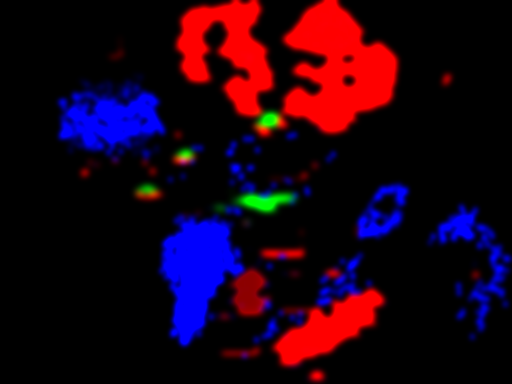
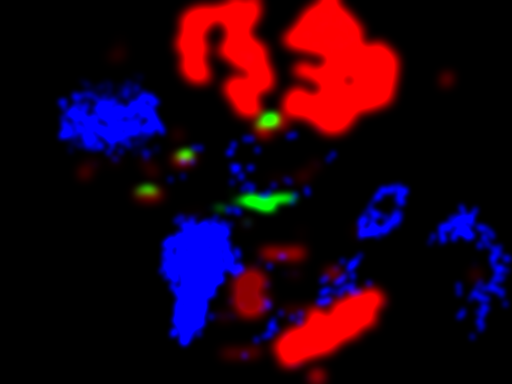
Piedi delle montagne in salita, terreno piu' irregolare, foresta fitta con sottobosco
Il terreno sale e si fa ruvido gia' 100-150 m prima di montagne e colline,
che hanno basi piu' larghe. Nella foresta alberi di tre taglie, alberelli nel
folto, cespugli, felci, piante ed erba alta verdi, luce piu' scura sotto le
chiome.

Claude-Session: https://claude.ai/code/session_01W2BWnqteNcm12tZAt5PmgA

diff --git a/web/src/game3d/vegetation.js b/web/src/game3d/vegetation.js
@@ -1,44 +1,63 @@
 // The trees of the open country: the forests of the map (its drawn trees: the forest layer) and a few trees scattered on
 // its plains; never on the places' ground, on the roads, in the water or on the beach, on steep slopes and cliffs;
-// in the snow pines and dead trees. Placed a tile (64 m) at a time, always the same (from the tile's number).
-// Near the player (NEAR) they are the nature pack's trees, instanced (a dozen draws for all of them); farther, up to the
-// fog, simple low trees (a cone, a ball, a bare trunk) that cost almost nothing. Their trunks stop whoever walks into
-// them (push).
+// in the snow pines and dead trees. In the forests trees of every size (young ones, middling ones, old giants; in the
+// thick of them a second, young tree beside each) and undergrowth: bushes, ferns, big plants, tall grass, mushrooms.
+// Placed a tile (64 m) at a time, always the same (from the tile's number).
+// Near the player (NEAR) they are the nature pack's trees, instanced (a dozen draws for all of them), the undergrowth
+// nearer still (NEAR_U); farther, up to the fog, simple low trees (a cone, a ball, a bare trunk) that cost almost
+// nothing. Their trunks stop whoever walks into them (push); the undergrowth does not.
 import * as THREE from "three";
 import { mergeGeometries } from "three/addons/utils/BufferGeometryUtils.js";
 import { libParts, natureScale } from "./nature";
 import { layersAt, surfaceAt, treeFree, nearRoad, SEA_Y } from "./terrain";
 import { MAP } from "./sites";
 
-const TILE = 64, CELL = 6.4, N = TILE / CELL, NEAR = 48, SHADE = 30, REBUILD = 5;
+const TILE = 64, CELL = 6.4, N = TILE / CELL, NEAR = 48, NEAR_U = 30, SHADE = 28, REBUILD = 5;
 const PINES = ["pino_1", "pino_2", "pino_3"], BROAD = ["albero_1", "albero_2", "albero_3"], MODELS = [...PINES, ...BROAD, "morto"];
+const UNDER = ["cespuglio", "felce", "pianta_grande", "erba_alta", "fungo"];
 const KIND = (id) => (id === "morto" ? 2 : id.startsWith("pino") ? 0 : 1);   // far: cone, ball, bare trunk
 const TX = Math.ceil(MAP.w / TILE), TZ = Math.ceil(MAP.h / TILE);
 const rand = (a, b, c) => { let h = (a * 374761393 + b * 668265263 + c * 1442695041) | 0; h = Math.imul(h ^ (h >>> 13), 1274126177); return ((h ^ (h >>> 16)) >>> 0) / 4294967295; };
 
-// The trees of a tile: [{ x, y, z, id, ry, k, r }]
+const steep = (x, z) => Math.hypot(surfaceAt(x + 1.5, z) - surfaceAt(x - 1.5, z), surfaceAt(x, z + 1.5) - surfaceAt(x, z - 1.5)) / 3;
+// The trees of a tile [{ x, y, z, id, ry, k, r }] and its undergrowth [{ x, y, z, id, ry, k }]
 function tileTrees(ti, tj) {
-  const out = [], x0 = ti * TILE - MAP.ox, z0 = tj * TILE - MAP.oz;
+  const trees = [], under = [], x0 = ti * TILE - MAP.ox, z0 = tj * TILE - MAP.oz;
   for (let b = 0; b < N; b++) for (let a = 0; a < N; a++) {
-    const seed = (tj * TX + ti) * 128 + b * N + a;
-    const x = x0 + (a + 0.5 + (rand(seed, 1, 7) - 0.5) * 0.85) * CELL, z = z0 + (b + 0.5 + (rand(seed, 2, 7) - 0.5) * 0.85) * CELL;
-    const ly = layersAt(x, z);
-    let p = ly.forest > 0.05 ? Math.min(0.75, 0.06 + ly.forest * 1.05) : 0.022;
-    if (ly.snow > 0.5 && ly.forest < 0.3) p *= 0.15;                       // (the snow: only its forest)
-    if (ly.mount > 0.3) p *= Math.max(0, 1 - (ly.mount - 0.3) * 2.5);      // none high on the mountains
-    if (ly.ice > 0.3) p = 0;
-    if (rand(seed, 3, 7) > p) continue;
-    const y = surfaceAt(x, z);
-    if (y < SEA_Y + 0.9 || !treeFree(x, z) || nearRoad(x, z, 4.5)) continue;
-    if (Math.hypot(surfaceAt(x + 1.5, z) - surfaceAt(x - 1.5, z), surfaceAt(x, z + 1.5) - surfaceAt(x, z - 1.5)) / 3 > 0.65) continue;   // too steep
-    const r = rand(seed, 4, 7);
-    const id = ly.snow > 0.5 ? (r < 0.55 ? PINES[Math.floor(r * 5.4) % 3] : "morto")
-      : ly.forest > 0.35 ? (r < 0.84 ? PINES[Math.floor(r * 3.56) % 3] : r < 0.96 ? BROAD[Math.floor(r * 37) % 3] : "morto")
-        : r < 0.6 ? BROAD[Math.floor(r * 5) % 3] : PINES[Math.floor(r * 7) % 3];
-    const k = 0.82 + rand(seed, 5, 7) * 0.45;
-    out.push({ x, y, z, id, ry: rand(seed, 6, 7) * Math.PI * 2, k, r: (id === "morto" ? 0.3 : 0.4) * k });
+    const seed = (tj * TX + ti) * 128 + b * N + a, ly = layersAt(x0 + (a + 0.5) * CELL, z0 + (b + 0.5) * CELL);
+    if (ly.ice > 0.3) continue;
+    const thick = ly.forest > 0.45 && ly.snow < 0.5;
+    for (let n = 0; n < (thick ? 2 : 1); n++) {                            // (in the thick of a forest: a young tree too)
+      const s2 = seed * 3 + n;
+      const x = x0 + (a + 0.5 + (rand(s2, 1, 7) - 0.5) * 0.9) * CELL, z = z0 + (b + 0.5 + (rand(s2, 2, 7) - 0.5) * 0.9) * CELL;
+      let p = n ? (ly.forest - 0.45) * 1.3 : ly.forest > 0.05 ? Math.min(0.75, 0.06 + ly.forest * 1.05) : 0.022;
+      if (ly.snow > 0.5 && ly.forest < 0.3) p *= 0.15;                     // (the snow: only its forest)
+      if (ly.mount > 0.3) p *= Math.max(0, 1 - (ly.mount - 0.3) * 2.5);    // none high on the mountains
+      if (rand(s2, 3, 7) > p) continue;
+      const y = surfaceAt(x, z);
+      if (y < SEA_Y + 0.9 || !treeFree(x, z) || nearRoad(x, z, 4.5) || steep(x, z) > 0.65) continue;
+      const r = rand(s2, 4, 7), sz = rand(s2, 5, 7);
+      const id = ly.snow > 0.5 ? (r < 0.55 ? PINES[Math.floor(r * 5.4) % 3] : "morto")
+        : ly.forest > 0.35 ? (r < 0.84 ? PINES[Math.floor(r * 3.56) % 3] : r < 0.96 ? BROAD[Math.floor(r * 37) % 3] : "morto")
+          : r < 0.6 ? BROAD[Math.floor(r * 5) % 3] : PINES[Math.floor(r * 7) % 3];
+      // sizes: young ones beside the others; in the forests small, middling and old giants; on the plains grown trees
+      const k = n ? 0.42 + sz * 0.3 : ly.forest > 0.3 ? (sz < 0.25 ? 0.55 + sz * 0.9 : sz < 0.78 ? 0.85 + (sz - 0.25) * 0.66 : 1.3 + (sz - 0.78) * 2.8) : 0.85 + sz * 0.6;
+      trees.push({ x, y, z, id, ry: rand(s2, 6, 7) * Math.PI * 2, k, r: (id === "morto" ? 0.3 : 0.4) * k });
+    }
+    // the undergrowth: thick in the forests (the more the thicker), here and there on the plains
+    const f = ly.snow > 0.5 || ly.mount > 0.5 ? 0 : ly.forest;
+    const nu = f > 0.3 ? 2 + (rand(seed, 9, 7) < f ? 1 : 0) + (rand(seed, 10, 7) < f - 0.4 ? 1 : 0) : rand(seed, 9, 7) < 0.1 ? 1 : 0;
+    for (let u = 0; u < nu; u++) {
+      const s3 = seed * 7 + u + 11;
+      const x = x0 + (a + rand(s3, 1, 9)) * CELL, z = z0 + (b + rand(s3, 2, 9)) * CELL, y = surfaceAt(x, z);
+      if (y < SEA_Y + 0.9 || !treeFree(x, z) || nearRoad(x, z, 3.2) || steep(x, z) > 0.8) continue;
+      const r = rand(s3, 3, 9);
+      const id = f > 0.3 ? (r < 0.34 ? "cespuglio" : r < 0.7 ? "felce" : r < 0.84 ? "pianta_grande" : r < 0.95 ? "erba_alta" : "fungo") : r < 0.55 ? "cespuglio" : "erba_alta";
+      const k = (id === "felce" ? 1.0 : id === "cespuglio" ? 0.9 : 0.8) + rand(s3, 4, 9) * 0.6;
+      under.push({ x, y, z, id, ry: rand(s3, 5, 9) * Math.PI * 2, k });
+    }
   }
-  return out;
+  return { trees, under };
 }
 
 // the far trees: a cone, a ball, a bare trunk (low, flat-shaded, coloured like the nature pack's)
@@ -60,13 +79,30 @@ function farGeometry(kind) {
 export function createVegetation(scene) {
   const tiles = new Map(), cells = new Map(), group = new THREE.Group();
   group.userData.world = true; scene.add(group);
-  const ok = MODELS.every((id) => libParts(id));
+  const ok = MODELS.every((id) => libParts(id)), okU = UNDER.filter((id) => libParts(id));
   // near: one instanced mesh for each part of each model
   const near = [];
   if (ok) for (const shade of [true, false]) MODELS.forEach((id) => libParts(id).forEach((pt) => {
     const m = new THREE.InstancedMesh(pt.geometry, pt.material, shade ? 300 : 600);
     m.count = 0; m.frustumCulled = false; m.castShadow = shade; m.receiveShadow = true;
     group.add(m); near.push({ id, m, s: natureScale(id), shade });
+  }));
+  // the undergrowth near the player (no shadows of its own: it is under the trees' already)
+  const low = [];
+  // (the pack's bushes have the twisted trees' blood-red leaves, its ferns and grass odd tints: in the forests of the
+  // open country their leaves are green, as light or dark as they are)
+  const green = (mat, red) => {
+    const g = mat.clone();
+    const lum = red ? "( diffuseColor.r + 0.12 ) * 1.05" : "( dot( diffuseColor.rgb, vec3( 0.3, 0.55, 0.15 ) ) + 0.08 ) * 1.5";
+    g.onBeforeCompile = (sh) => { sh.fragmentShader = sh.fragmentShader.replace("#include <map_fragment>", `#include <map_fragment>\n\tdiffuseColor.rgb = vec3( 0.36, 0.62, 0.24 ) * ${lum};`); };
+    g.customProgramCacheKey = () => `leaf-green-${red ? 1 : 0}`;
+    return g;
+  };
+  okU.forEach((id) => libParts(id).forEach((pt) => {
+    const leaf = /Leaves|Grass/.test(pt.material.name), red = /TwistedTree/.test(pt.material.name);
+    const m = new THREE.InstancedMesh(pt.geometry, leaf ? green(pt.material, red) : pt.material, 700);
+    m.count = 0; m.frustumCulled = false; m.receiveShadow = true;
+    group.add(m); low.push({ id, m, s: natureScale(id) });
   }));
   const farMat = new THREE.MeshLambertMaterial({ vertexColors: true, flatShading: true });
   const far = [0, 1, 2].map((kind) => {
@@ -81,29 +117,39 @@ export function createVegetation(scene) {
     let t = tiles.get(key);
     if (!t) {
       t = tileTrees(ti, tj); tiles.set(key, t);
-      t.forEach((tr) => { const ck = `${Math.floor(tr.x / 8)}|${Math.floor(tr.z / 8)}`; (cells.get(ck) || cells.set(ck, []).get(ck)).push(tr); });
+      t.trees.forEach((tr) => { const ck = `${Math.floor(tr.x / 8)}|${Math.floor(tr.z / 8)}`; (cells.get(ck) || cells.set(ck, []).get(ck)).push(tr); });
     }
     return t;
   };
   const m4 = new THREE.Matrix4(), q = new THREE.Quaternion(), v = new THREE.Vector3(), sc = new THREE.Vector3(), UP = new THREE.Vector3(0, 1, 0), tint = new THREE.Color();
   let lx = Infinity, lz = Infinity, lfar = 0, pending = false;
-  const counts = { near: 0, far: 0 };
+  const counts = { near: 0, far: 0, under: 0 };
   function rebuild(px, pz, fogFar) {
     const R = fogFar + 8, a0 = Math.max(0, Math.floor((px + MAP.ox - R) / TILE)), a1 = Math.min(TX - 1, Math.floor((px + MAP.ox + R) / TILE));
     const b0 = Math.max(0, Math.floor((pz + MAP.oz - R) / TILE)), b1 = Math.min(TZ - 1, Math.floor((pz + MAP.oz + R) / TILE));
     let made = 0;
     pending = false;
-    near.forEach((n) => { n.m.count = 0; }); far.forEach((m) => { m.count = 0; });
+    near.forEach((n) => { n.m.count = 0; }); far.forEach((m) => { m.count = 0; }); low.forEach((n) => { n.m.count = 0; });
     for (let tj = b0; tj <= b1; tj++) for (let ti = a0; ti <= a1; ti++) {
       const cx = (ti + 0.5) * TILE - MAP.ox, cz = (tj + 0.5) * TILE - MAP.oz;
       if (Math.hypot(cx - px, cz - pz) > R + TILE * 0.71) continue;
       if (!tiles.has(tj * TX + ti)) { if (made >= 4) { pending = true; continue; } made++; }   // (a few new tiles a frame)
-      for (const t of tileOf(ti, tj)) {
+      const tile = tileOf(ti, tj);
+      for (const t of tile.under) {
+        if (Math.hypot(t.x - px, t.z - pz) > NEAR_U) continue;
+        q.setFromAxisAngle(UP, t.ry);
+        for (const n of low) {
+          if (n.id !== t.id || n.m.count >= n.m.instanceMatrix.count) continue;
+          const k = n.s * t.k;
+          n.m.setMatrixAt(n.m.count++, m4.compose(v.set(t.x, t.y - 0.05, t.z), q, sc.set(k, k, k)));
+        }
+      }
+      for (const t of tile.trees) {
         const d = Math.hypot(t.x - px, t.z - pz);
         if (d > R) continue;
         q.setFromAxisAngle(UP, t.ry);
-        if (d < NEAR && ok) {
-          const shade = d < SHADE;
+        if (d < (t.k < 0.8 ? 30 : NEAR) && ok) {
+          const shade = d < SHADE && t.k >= 0.8;
           for (const n of near) {
             if (n.id !== t.id || n.shade !== shade || n.m.count >= n.m.instanceMatrix.count) continue;
             const k = n.s * t.k;
@@ -115,13 +161,13 @@ export function createVegetation(scene) {
         }
       }
     }
-    near.forEach((n) => { n.m.instanceMatrix.needsUpdate = true; });
+    near.forEach((n) => { n.m.instanceMatrix.needsUpdate = true; }); low.forEach((n) => { n.m.instanceMatrix.needsUpdate = true; });
     far.forEach((m) => { m.instanceMatrix.needsUpdate = true; if (m.instanceColor) m.instanceColor.needsUpdate = true; });
-    counts.near = near.reduce((s, n) => s + n.m.count, 0); counts.far = far.reduce((s, m) => s + m.count, 0);
+    counts.near = near.reduce((s, n) => s + n.m.count, 0); counts.far = far.reduce((s, m) => s + m.count, 0); counts.under = low.reduce((s, n) => s + n.m.count, 0);
     for (const [key] of tiles) {                                            // (far behind: forgotten)
       const ti = key % TX, tj = Math.floor(key / TX), cx = (ti + 0.5) * TILE - MAP.ox, cz = (tj + 0.5) * TILE - MAP.oz;
       if (Math.hypot(cx - px, cz - pz) > 420) {
-        tiles.get(key).forEach((tr) => { const ck = `${Math.floor(tr.x / 8)}|${Math.floor(tr.z / 8)}`, l = cells.get(ck); if (l) { l.splice(l.indexOf(tr), 1); if (!l.length) cells.delete(ck); } });
+        tiles.get(key).trees.forEach((tr) => { const ck = `${Math.floor(tr.x / 8)}|${Math.floor(tr.z / 8)}`, l = cells.get(ck); if (l) { l.splice(l.indexOf(tr), 1); if (!l.length) cells.delete(ck); } });
         tiles.delete(key);
       }
     }

diff --git a/web/src/game3d/terrain.js b/web/src/game3d/terrain.js
@@ -14,6 +14,7 @@ import { mergeGeometries } from "three/addons/utils/BufferGeometryUtils.js";
 import COSTA from "./mondo/costa.png";
 import RILIEVO from "./mondo/rilievo.png";
 import SUOLO from "./mondo/suolo.png";
+import PENDII from "./mondo/pendii.png";
 import ERBA from "./terreno_erba.jpg";
 import ERBA_N from "./terreno_erba_n.jpg";
 import TERRA from "./terreno_terra.jpg";
@@ -40,8 +41,8 @@ async function readImage(src) {
 /** Loads the map's layers (once, before the game starts). */
 export async function loadTerrain() {
   if (L) return;
-  const [costa, rilievo, suolo] = await Promise.all([readImage(COSTA), readImage(RILIEVO), readImage(SUOLO)]);
-  L = { costa, rilievo, suolo };
+  const [costa, rilievo, suolo, pendii] = await Promise.all([readImage(COSTA), readImage(RILIEVO), readImage(SUOLO), readImage(PENDII)]);
+  L = { costa, rilievo, suolo, pendii };
 }
 // bilinear sample of channel ch of a layer at map pixel (px, py); out of the layer: def
 const sample = (lay, px, py, ch, def) => {
@@ -158,6 +159,7 @@ export function layersAt(x, z) {
   return {
     dry: sample(L.suolo, px, pz, 1, 0) / 255, snow: sample(L.suolo, px, pz, 0, 0) / 255, ice: sample(L.suolo, px, pz, 2, 0) / 255,
     forest: sample(L.rilievo, px, pz, 2, 0) / 255, mount: sample(L.rilievo, px, pz, 0, 0) / 255, hill: sample(L.rilievo, px, pz, 1, 0) / 255,
+    foot: sample(L.pendii, px, pz, 0, 0) / 255,
   };
 }
 /** The height of the ground at a world point (the smooth one; what is drawn and walked on is surfaceAt). */
@@ -171,13 +173,17 @@ export function heightAt(x, z) {
   else h = SEA_Y + 0.15 + (base - SEA_Y - 0.15) * smooth(0, 8 + (base - SEA_Y) * 2.2, d);   // the shore up to the land
   if (d > 2) {
     const inland = smooth(2, 40, d), road = 1 - smooth(3.5, 10, roadDist(x, z));
+    // towards the mountains and the hills the ground climbs long before them, rougher and rougher (their feet)
+    const foot = sample(L.pendii, px, pz, 0, 0) / 255, footH = sample(L.pendii, px, pz, 1, 0) / 255, rough = 1 + foot * 1.8 + footH * 1.1;
+    h += (foot ** 1.15 * 24 + footH ** 1.2 * 6) * (0.65 + 0.35 * fbm(x / 55 + 1.7, z / 55 + 4.2)) * inland;
+    if (foot > 0.05) h += (ridge(x / 46 + 2.2, z / 46 - 7.1) - 0.55) * 6 * foot * inland;     // (crests and gullies)
     // the ground is never flat: long swells, humps, little bumps (fewer on the roads)
-    h += (fbm(x / 140, z / 140) * 2.0 + 1.6) * smooth(6, 50, d);
-    h += (fbm(x / 38 + 7.7, z / 38 - 2.1) * 1.5 * (1 - road * 0.6) + (vnoise(x / 12.5, z / 12.5) * 0.45 + vnoise(x / 5.5 + 3.1, z / 5.5 - 8.4) * 0.14) * (1 - road)) * inland;
+    h += (fbm(x / 140, z / 140) * 2.2 + 1.6) * smooth(6, 50, d);
+    h += (fbm(x / 38 + 7.7, z / 38 - 2.1) * 1.9 * rough * (1 - road * 0.6) + (vnoise(x / 12.5, z / 12.5) * 0.5 * rough + vnoise(x / 5.5 + 3.1, z / 5.5 - 8.4) * 0.16) * (1 - road)) * inland;
     const hill = sample(L.rilievo, px, pz, 1, 0) / 255;
     if (hill > 0.01) h += 10 * hill ** 1.2 * (0.6 + 0.4 * fbm(x / 60 + 3.3, z / 60)) * inland;
     const m = sample(L.rilievo, px, pz, 0, 0) / 255;
-    if (m > 0.01) h += (78 * m ** 1.6 * (0.5 + 0.5 * ridge(x / 95, z / 95)) + 7 * m * fbm(x / 22, z / 22)) * inland;
+    if (m > 0.01) h += (70 * m ** 1.6 * (0.5 + 0.5 * ridge(x / 95, z / 95)) + 8 * m * fbm(x / 20, z / 20)) * inland;
     h += stepAt(x, z);
   }
   const [w, fy] = flatAt(x, z);
@@ -264,7 +270,7 @@ const TERRAIN_MAP = `
 	float tDry = clamp( vW.x * 0.85 + ( tNoise( tWP.xz * 0.045 + 11.3 ) - 0.5 ) * 0.35, 0.0, 1.0 );
 	vec3 tCol = mix( tG, mix( tG * vec3( 1.12, 1.0, 0.7 ), tD * vec3( 1.0, 0.92, 0.78 ), 0.55 ), tDry );
 	tCol *= 1.0 + 0.16 * ( tV * 2.0 - 1.0 );
-	tCol *= 1.0 - 0.22 * vW.w;                                                      // under the forests
+	tCol *= 1.0 - 0.4 * smoothstep( 0.05, 0.8, vW.w );                              // under the forests: their shade
 	float tRock = smoothstep( 0.82, 0.62, normalize( tWN ).y );                    // steep: bare rock
 	tCol = mix( tCol, mix( tD, vec3( tLum ), 0.35 ) * vec3( 1.08, 1.04, 1.0 ), tRock );
 	float tSand = smoothstep( ${(SEA_Y + 0.75).toFixed(2)}, ${(SEA_Y + 0.25).toFixed(2)}, tWP.y );   // by the water: sand

diff --git a/web/src/game3d/engine.js b/web/src/game3d/engine.js
@@ -751,7 +751,7 @@ export function createGame(canvas, hooks, saved, opts = {}) {
   const DAYLOOK = { forest: ["#6a8a78", "#4e6a52", 8, 48, 0.9, 0.6], village: ["#9cc4e4", "#b8d0e0", 30, 80, 1.6, 0.9], valdoro: ["#a8c4dc", "#c0d0dc", 26, 70, 1.5, 0.9], wild: ["#9cc4e4", "#bcd2e2", 40, 130, 1.6, 0.9] };
   const NIGHT = ["#070a14", "#0a0e1a", 10, 42];
   // in the great forests of the open country (the map's): darker, the fog nearer (wildF: how deep in one)
-  const SELVA = ["#86a296", "#6a8a76", 14, 78, 1.15, 0.72];
+  const SELVA = ["#6f8c7e", "#566e5e", 10, 64, 0.75, 0.55];   // (the leaves above let little sunlight through)
   let wildF = 0;
   // (in the mine the world keeps the village's light: the dark is in the mountain only, see mine.js)
   const cA = new THREE.Color(), cB = new THREE.Color();

diff --git a/web/tools/world-layers.py b/web/tools/world-layers.py
@@ -7,6 +7,8 @@
 #   costa.png   1024 x 768 (2 m a pixel), grey: 128 + the distance from the coast in metres (more inland, less at sea)
 #   rilievo.png 512 x 384 (4 m a pixel): R mountains, G hills, B forest (0..255)
 #   suolo.png   512 x 384: R snow, G dry ground (brown on the map), B ice
+#   pendii.png  512 x 384: the feet of the mountains (R) and of the hills (G): their drawings widely blurred, so the
+#               ground rises, rough, long before them (terrain.js)
 # Usage: python3 tools/world-layers.py [preview.png]
 import sys
 from pathlib import Path
@@ -102,7 +104,7 @@ def field(mask, close, blur, gain=1.0):
     i = i.filter(ImageFilter.GaussianBlur(blur))
     return np.clip(np.asarray(i) / 255.0 * gain, 0, 1)
 
-fm = field(mount, 25, 12, 1.5)
+fm = field(mount, 25, 22, 1.6)   # (wide bases: the mountains rise from their feet, not straight up)
 low = np.zeros((H, W));
 for x0, y0, x1, y1 in LOW:
     low[y0:y1, x0:x1] = 1
@@ -114,15 +116,20 @@ fs = field(snow & land, 0, 4)
 dry = np.clip(((R - G) + 8) / 30.0, 0, 1) * land
 fd = np.asarray(Image.fromarray((dry * 255).astype(np.uint8)).filter(ImageFilter.GaussianBlur(6))) / 255.0
 fi = field(ice & land, 0, 4)
+# the feet of the mountains and of the hills: how near one is to them (wide, soft)
+blur = lambda a, r: np.asarray(Image.fromarray(np.clip(a * 255, 0, 255).astype(np.uint8)).filter(ImageFilter.GaussianBlur(r))) / 255.0
+pm = np.clip(blur(fm, 60) * 2.0, 0, 1) * land
+ph = np.clip(blur(fh, 32) * 2.4, 0, 1) * land
 
 small = lambda a: np.asarray(Image.fromarray(np.clip(a * 255, 0, 255).astype(np.uint8)).resize((W // 4, H // 4), Image.BOX))
 OUT.mkdir(parents=True, exist_ok=True)
 Image.fromarray(coast, "L").save(OUT / "costa.png", optimize=True)
 Image.fromarray(np.dstack([small(fm), small(fh), small(ff)]), "RGB").save(OUT / "rilievo.png", optimize=True)
 Image.fromarray(np.dstack([small(fs), small(fd), small(fi)]), "RGB").save(OUT / "suolo.png", optimize=True)
+Image.fromarray(np.dstack([small(pm), small(ph), np.zeros((H // 4, W // 4), np.uint8)]), "RGB").save(OUT / "pendii.png", optimize=True)
 print("terra %.1f%%, montagne %.1f%%, colline %.1f%%, foreste %.1f%%, neve %.1f%%, ghiaccio %.1f%%" % tuple(
     100 * v for v in (land.mean(), (fm > 0.3).mean(), (fh > 0.3).mean(), (ff > 0.3).mean(), (fs > 0.5).mean(), (fi > 0.5).mean())))
-for f in ("costa.png", "rilievo.png", "suolo.png"):
+for f in ("costa.png", "rilievo.png", "suolo.png", "pendii.png"):
     print(f, (OUT / f).stat().st_size // 1024, "KB")
 
 if len(sys.argv) > 1:   # a picture to check: land shaded by a rough height, snow, ice, forests

diff --git a/PIANO.md b/PIANO.md
@@ -479,5 +479,15 @@ torre, grotte; poi il serpente marino).
   `heightOf`; bosco `LOW`), con cui si spostano modelli, pezzi dei pacchetti e foglie; `FLATS` spiana alla quota del luogo.
 - **Acqua**: il mare è più basso (`SEA_Y = -12.5`), le rive scendono presto (0,32 m per metro), il fondo prende il colore
   dell'acqua e l'acqua è più coprente: fiumi e insenature si vedono (prima erano pochi cm d'acqua su sabbia).
-- **Terreno irregolare**: ovunque fuori dai luoghi onde lunghe (±2 m su 140 m), gobbe (±1,5 m su 38 m), dossi
-  (±0,45 m su 12 m, ±0,14 m su 5 m), smorzati sulle strade (`roadDist` dalle linee di `ROADS`).
+- **Terreno irregolare**: ovunque fuori dai luoghi onde lunghe (±2,2 m su 140 m), gobbe (±1,9 m su 38 m), dossi
+  (±0,5 m su 12 m, ±0,16 m su 5 m), smorzati sulle strade (`roadDist` dalle linee di `ROADS`).
+- **Piedi delle montagne e delle colline** (`mondo/pendii.png`, R montagne, G colline: i loro disegni sfumati larghi,
+  60 e 32 px): il terreno sale già 100–150 m prima (fino a ~24 m ai piedi delle montagne, ~6 m delle colline), più
+  ruvido (gobbe e dossi moltiplicati, creste e canaloni); le montagne hanno basi più larghe (sfumatura 22 px), così
+  avvicinandosi si sale davvero invece di trovare un cono che parte dal piano.
+- **Foresta fitta** (`vegetation.js`): alberi di tre taglie (giovani 0,55–0,77, medi 0,85–1,2, vecchi giganti
+  1,3–1,9) e nel folto un secondo alberello per cella; i piccoli sono modelli veri solo entro 30 m, ombre solo dai
+  cresciuti entro 28 m. **Sottobosco** entro 30 m: cespugli, felci, piante grandi, erba alta, funghi (2–4 per cella nel
+  folto, rari in pianura), foglie ricolorate verdi (i cespugli del pacchetto hanno le foglie rosse degli alberi
+  contorti). Sotto le foreste il terreno è più scuro (fino al 40%) e la luce più debole (`SELVA`: sole 0,75, cielo
+  0,55, nebbia 10–64 m).
